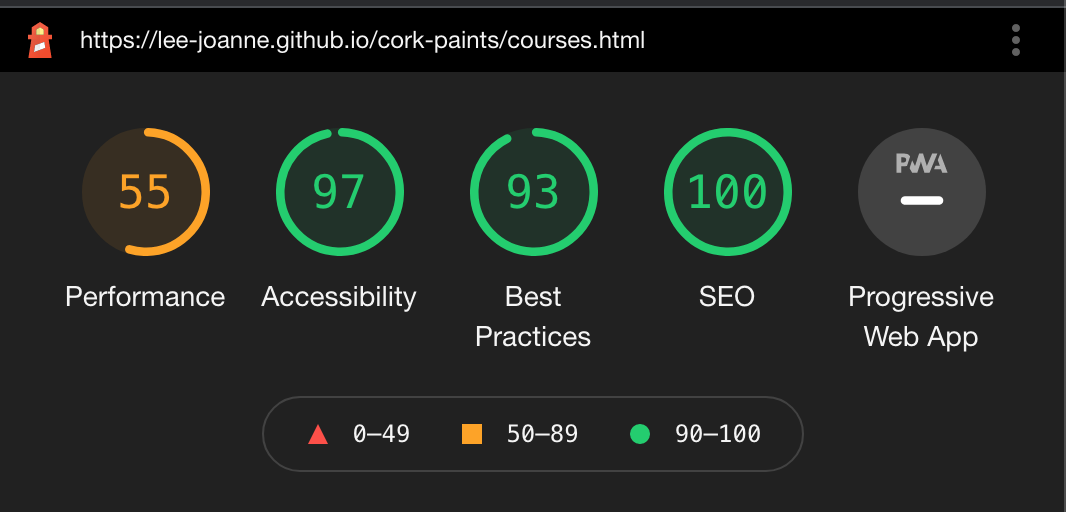
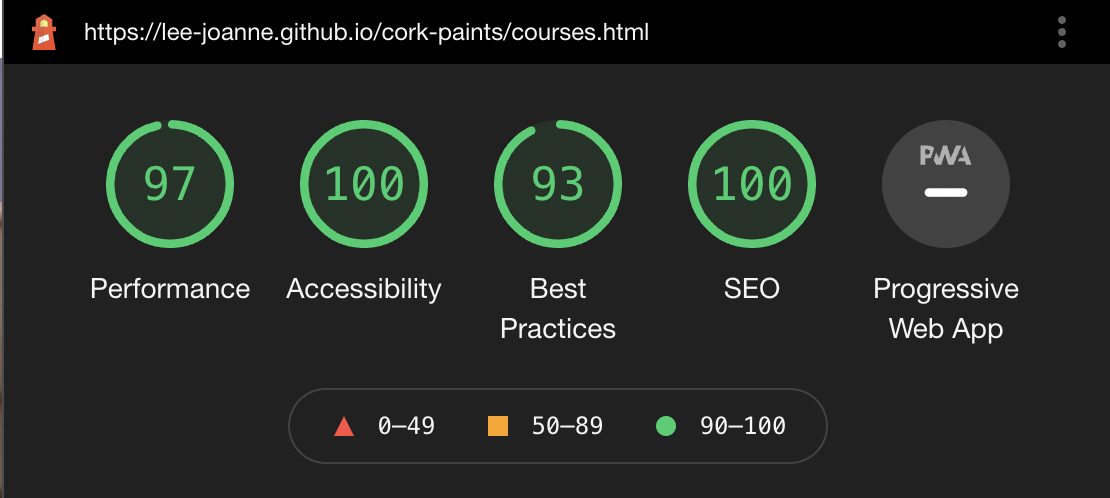
Make final revisions on README

diff --git a/README.md b/README.md
@@ -2,7 +2,7 @@
 
 [View Live Project Here](https://lee-joanne.github.io/cork-paints/)
 
-Cork Paints is a low-cost painting workshop for all different skill levels in Cork City, Ireland. The website is targeted towards children, teenagers, or adults who are interested in learning how to paint with acrylic, watercolour, or oil. Cork Paints offers in-class workshop sessions on evenings or weekends to suit the busy lifestyles of students and working adults. 
+Cork Paints is a low-cost painting workshop for all different skill levels in Cork City, Ireland. The website is targeted towards children, teenagers, or adults who are interested in learning how to paint with acrylic, watercolour, or oil. Cork Paints offers in-class workshop sessions on evenings or weekends to suit the busy lifestyle of students and working adults. 
 
 ![Screenshot of Cork Paints index page on Am I Responsive](assets/documentation/images/amiresponsive-index.png)
 ![Screenshot of Cork Paints courses page on Am I Responsive](assets/documentation/images/amiresponsive-courses.png)
@@ -13,25 +13,25 @@ Cork Paints is a low-cost painting workshop for all different skill levels in Co
 * ### User Stories
   - First Time Visitor Goals
 
-    1. As a First Time Visitor. I want to be able to easily understand what Cork Paints has to offer and how they are different from other expensive painting workshops in the city. 
+    1. As a First Time Visitor. I want to be able to easily understand what Cork Paints has to offer and how they are different from other expensive painting workshops in the city. On the landing page, I can see that Cork Paints offers low cost and affordable painting workshops for all different skill levels.
 
-    2. As a First Time Visitor, I can see exactly where Cork Paints is located in the city to know where to travel to for these in-class workshop sessions. 
+    2. As a First Time Visitor, I can see exactly where Cork Paints is located in the city to know where to travel to for these in-class workshop sessions. On the landing page, I can easily see the workshops take place in Cork City and I can scroll down to see the map view of where the workshop is.
 
-    3. As a First Time Visitor, I want to read the review section where other learners have tried Cork Paints to be assured this service is reputable, reliable, and sufficient.
+    3. As a First Time Visitor, I want to read the review section where other learners have tried Cork Paints to be assured this service is reputable, reliable, and sufficient. On the landing page, I can scroll down and easily find and read the testimonies and reviews by other learners.
  
   - Returning Visitor Goals
 
-    1. As a Returning Visitor, I want to read what different courses Cork Paints has to offer, including the prices, age range, dates, and skill level.
+    1. As a Returning Visitor, I want to read what different courses Cork Paints has to offer, including the prices, age range, dates, and skill level. When I go onto the courses page, each course is carefully laid out in individual cards with all of the information present and written clearly.
 
-    2. As a Returning Visitor, I want to know the operating hours of Cork Paints and how I can get in touch with any query I may have. 
+    2. As a Returning Visitor, I want to know the operating hours of Cork Paints and how I can get in touch with any query I may have. On the landing page, I can easily find this information when I scroll down and see the giant card with the operating hours and contact information.
 
     3. As a Returning Visitor, I know exactly how to register for my next course as the registration page is very comprehensive and easy to use, thanks to the two dropdown menus to select my course and skill level. 
 
   - Frequent User Goals
 
-    1. As a Frequent User, I want to be able to find and check out their social media links to be updated with any new events or updates. 
+    1. As a Frequent User, I want to be able to find and check out their social media links to be updated with any new events or updates. I can easily find this in the footer of all of the pages.
 
-    2. As a Frequent User, I want to see other courses I can try out that is either a skill level higher than the one I have tried previously or to try out a new type of course. I can easily jump to which skill level I want to see by clicking on the links at the top on my mobile device so I can save time scrolling. 
+    2. As a Frequent User, I want to see other courses I can try out that is either a skill level higher than the one I have tried previously or to try out a new type of course. On the courses page, I can easily jump to which skill level I want to see by clicking on the links at the top on my mobile device so I can save time scrolling. 
 
 
 * ### Design
@@ -41,7 +41,7 @@ Cork Paints is a low-cost painting workshop for all different skill levels in Co
     2. White (#fff)
     3. Black (#232222)
 
-    - The main colours I have selected for this website are purple (#78748F), white (#fff), and black (#232222). For white text with the purple background, I have added 0.8 opacity to make the solid colour less harsh but also to increase readability for the user. These colours work beautifully together and white fonts are used on top of purple backgrounds and black font is used on top of white backgrounds. 
+    - The main colours I have selected for this website are purple (#78748F), white (#fff), and black (#232222). For white text with the purple background, I have added 0.8 opacity to make the solid colour less harsh but also to increase readability for the user. These colours work beautifully together and white fonts are used on top of purple backgrounds and black font is used on top of white backgrounds to enhance accessibility.  
 
   - Typography
 
@@ -56,7 +56,7 @@ Cork Paints is a low-cost painting workshop for all different skill levels in Co
     - The hero image contains a gorgeous photo of a hand painting on a canvas, with colours that highly suit the colour scheme of the website. The image contains a keyframe to zoom in to catch the user's attention. The images chosen are selected to be minimalistic and artistic which suit the painting theme of Cork Paints.
 
 * ### Wireframes
-  - Wireframes have been created using the program Sketch.
+  - Low-fidelity wireframes have been created using the program Sketch.
 
     - Desktop Wireframe - [View](assets/documentation/wireframes/desktop-wireframe.png) 
 
@@ -74,7 +74,7 @@ Cork Paints is a low-cost painting workshop for all different skill levels in Co
 
     - The page that is currently active is coloured purple (#78748F) for the user to understand which page they are on. When the user hovers over the links, the links change to purple (#78748F) to help the user confirm which link they are about to click.
 
-    - When the device screens go smaller (tablet and mobile sizes), the navigation bar will turn into a hamburger icon. The hamburger icon is perfect for more breathing space between the navigation bar and logo for the users to redirect themselves to a different page. The hamburger icon is great for intuitive navigation as users will easily recognize the hamburger icon's purpose. 
+    - When the device screens go smaller (tablet and mobile sizes), the navigation bar will turn into a hamburger icon. The hamburger icon is perfect for more breathing space between the navigation links and logo for the users to redirect themselves to a different page. The icon highly increases user experience as the users will not have to worry about accidentally clicking another link if the links appear too small or squished. The hamburger icon is great for intuitive navigation as users will easily recognize the hamburger icon's purpose. 
 
     ![Screenshot of navbar in desktop view](assets/documentation/images/navbar-desktop.png)
     ![Screenshot of navbar in mobile view](assets/documentation/images/navbar-mobile.png)
@@ -82,15 +82,13 @@ Cork Paints is a low-cost painting workshop for all different skill levels in Co
 
   - Landing Page
 
-    - The landing page contains a large photograph of a painting on a canvas which matches the purple (#78748F) colour scheme and centered text in the middle. The large heading text has white font and has a purple background for contrast. The landing page explains what Cork Paints is, where they are, and what they offer in very brief statements. 
-
-    - The hero image contains an eyecatching animation of zooming up to grab the user's attention.
+    - The landing page contains a large photograph of a painting on a canvas which matches the purple (#78748F) colour scheme and centered text in the middle. The large heading text has white font and has a purple background for contrast. The landing page explains what Cork Paints is, where they are, and what they offer in very brief statements. The objective of this hero image and text is to explain very briefly what Cork Paints is all about, to grab the user's attention, and to give a good first impression of the website. The hero image also contains an eyecatching animation of zooming up.
 
     ![Screenshot of landing page](assets/documentation/images/landingpage.png)
 
   - About Section
 
-    - The about section contains a paragraph of text and a circular image. The h3 heading is in purple (#78748F) to match the colour scheme of the website and the text is in black to contrast the white background. The text explains who Cork Paints is to allow the users to understand who is behind Cork Paints. This allows the users to feel more connected to the people behind Cork Paints by humanizing the website. 
+    - The about section contains a paragraph of text and a circular image. The h3 heading is in purple (#78748F) to match the colour scheme of the website and the text is in black to contrast the white background for high accessibility. The text explains who Cork Paints is to allow the users to understand who is behind Cork Paints. This allows the users to feel more connected to the people behind Cork Paints by humanizing the website. 
 
     - The circular image contains a woman's face behind a painted piece of glass to represent the volunteers of Cork Paints to enhance the aesthetics of this section.
 
@@ -98,7 +96,7 @@ Cork Paints is a low-cost painting workshop for all different skill levels in Co
 
   - Testimonial Section
 
-    - The testimonial section contains testimonials and reviews from other learners who have attended Cork Paints. This section contains a large image of a painting as the background image. White text is displayed over purple (#78748F) cards for high readability. There are three cards for the section to be split into thirds to enhance the appeal of the section. 
+    - The testimonial section contains testimonies and reviews from other learners who have attended Cork Paints. This section contains a large image of a painting as the background image. White text is displayed over purple (#78748F) cards for high readability. There are three cards for the section to be split into thirds to enhance the appeal of the section. 
 
     - The testimonial section is crucial to give the users the confidence and reassurance that Cork Paints is a reputable website and service. 
 
@@ -158,7 +156,7 @@ Cork Paints is a low-cost painting workshop for all different skill levels in Co
 * ### Frameworks, Libraries & Programs Used
 
   1. [Bootstrap v5.0](https://getbootstrap.com/docs/5.0/getting-started/introduction/) 
-      - Bootstrap was used for the navigation bar on all pages to make the bar responsive on smaller devices. jQuery was part of Bootstrap to make the navigation bar toggle. 
+      - Bootstrap was used for the navigation bar on all pages to make the bar responsive on smaller devices. When the navigation bar reaches a certain size, it will turn into a hamburger icon. jQuery was part of Bootstrap to make the navigation bar toggle. 
 
   2. [Google Fonts](https://fonts.google.com/)
       - Google Fonts was used to import the fonts Montserrat and Lora. 
@@ -170,19 +168,19 @@ Cork Paints is a low-cost painting workshop for all different skill levels in Co
       - Git was used by utilizing the Gitpod terminal to commit to Git and Push to GitHub.
 
   5. [GitHub](https://github.com/)
-      - Git was used to store the project code after being pushed in by Git. GitHub was also used to deploy the project to create a public link.
+      - Git was used to store the project code after being pushed in by Git. GitHub Pages was also used to deploy the project to create a public link.
 
   6. [Sketch](https://www.sketch.com/)
-      - Sketch was used to create low fidelity wireframes of the website.
+      - Sketch was used to create low-fidelity wireframes of the website.
 
   7. [Pexels](https://www.pexels.com/)
       - Pexels was used for all images, including background images, to make the website look more appealing and eyecatching to the user.
 
   8. [Google Maps](https://maps.google.com)
-      - Google Maps was used to embed an iFrame to insert onto the index page of the website. The map is very useful for users to understand exactly where the workshop is located. 
+      - Google Maps was used to embed an iFrame to insert onto the index page of the website. The map is very useful for users to understand exactly where the workshop is located and to seek directions to the workshop from their location.
   
   9. [ColorZilla](https://www.colorzilla.com/)
-      - ColorZilla Chrome extension was used to select the purple (#78748F) colour by using this tool on the hero image on the Index Page to identiy the main colour scheme of the website.
+      - ColorZilla Chrome extension was used to select the purple (#78748F) colour by using this tool on the hero image on the index page to identiy the main colour scheme of the website.
 
   10. [Tinypng.com](https://tinypng.com/)
       - Tinypng was used to compress all of my images throughout the website to make the performance speed faster.
@@ -197,25 +195,25 @@ Cork Paints is a low-cost painting workshop for all different skill levels in Co
 To thoroughly test the website, the W3C Markup Validator and W3C CSS Validation Service were used to validate all pages of the project to spot any errors in the syntax. No errors were found for all HTML pages and the CSS file.
 
   - [W3C Markup Validator](https://validator.w3.org/)
-    - [Index Page Results](assets/documentation/images/index-validator.png) 
-    - [Courses Page Results](assets/documentation/images/courses-validator.png) 
-    - [Register Page Results](assets/documentation/images/register-validator.png) 
+![Index Page Results](assets/documentation/images/index-validator.png) 
+![Courses Page Results](assets/documentation/images/courses-validator.png) 
+![Register Page Results](assets/documentation/images/register-validator.png) 
 
   - [W3C CSS Validation Service](https://jigsaw.w3.org/css-validator/)
-    - [CSS Results](assets/documentation/images/css-validator.png) 
+![CSS Results](assets/documentation/images/css-validator.png) 
 
 * ### Accessibility Testing
 
-The website was also tested on Lighthouse to test accessibility. When tested, all three pages come up as 97% on accessibility. 
+The website was also tested on Lighthouse to test accessibility. When tested, all three pages come up as 97+ on accessibility. 
 
-  - [Index Page Results](assets/documentation/images/index-lighthouse.png)
-  - [Courses Page Results](assets/documentation/images/courses-lighthouse.png)
-  - [Register Page Results](assets/documentation/images/register-lighthouse.png)
+![Index Page Results](assets/documentation/images/index-lighthouse.png)
+![Courses Page Results](assets/documentation/images/courses-lighthouse.png)
+![Register Page Results](assets/documentation/images/register-lighthouse.png)
 
 * ### Unfixed Bugs
 
-  - Using Lighthouse, performance scores are low on all of the pages. In the future, I wish to be able to bring the performance score up to at least 90% to ensure that the users will be able to open up this website at ease. This issue has been left unfixed because when convering some of the images from jpeg to webp and then compressing, the quality of the images have been lost. User experience of clear images has been prioritized for now over performance speed to ensure the website is appealing to the user.
   - When previewed on Google DevTools in the 'Galaxy Note' device viewport, the 'Cork Paints' logo breaks apart when the hamburger icon toggle collapses and 'Paints' moves onto the next line. When making the logo smaller using media queries, the logo becomes too small which could bring a bad user experience, especially users with visual impairment. Devices wider than the 'Galaxy Note' show the logo perfectly when the hamburger icon toggles. Since this is a slight error that only causes a minor imperfection, I have left the logo's size alone since it does not cause a detrimental user experience compared to making the logo font size smaller.  
+   - When this website is previewed on iPhones, the contact telephone number of the website becomes blue which does not contrast well to the purple background. In order to fix this, meta tag would need to be in place. I have not added this since it is only a slight imperfection and the phone number still contrasts perfectly when viewed on mobile sized viewports using Google DevTools.
 
 * ### Fixed Bugs
 
@@ -224,13 +222,12 @@ The website was also tested on Lighthouse to test accessibility. When tested, al
     - The navigation bar installed by Bootstrap v5.0 was very difficult to overcome. After adding the Bootstrap CSS stylesheet and script, the navigation bar refused to toggle when it became a hamburger icon. After researching on Stack Overflow and asking queries on Slack, I have asked tutor support for advice and they have helped me thoroughly. It turned out that I have added the plug-in twice by accident so I had to remove the script at the bottom. The navigation bar as well was left-aligned when I wanted it to be right-aligned. With help from tutor support, I was able to add 'ms-auto' as a class to the navigation bar for the navigation bar to be right-aligned.
     - The course cards on the courses page were not stacking centered when the viewport became smaller. It turned out that I had a div with incorrect flex display properties and I had to create another div to have flex display properties to correctly center the cards when the screen becomes smaller.
     - The background image on the courses page became very low quality when the screen size became a tablet size and smaller. To fix this, I decided to make the background image fixed when the screen is lower than 1245px so that the image would not be stretched and the webpage is still able to scroll with the fixed background.
-    - The performance score in Lighthouse for all of the pages were initially very low, scoring around 20%. In order to try to increase the score, I have taken all of the images and have compressed them used [Tinypng.com](https://tinypng.com/). I have converted the smaller images from jpeg to webp format using the online conversion tool, [Convertio](https://convertio.co/jpeg-webp/), to help reduce the size of the images. After all of this, the performance score is still low but is considerably higher than how it was initially.
-
+    - The performance score in Lighthouse for all of the pages were initially very low, scoring around 20%. In order to try to increase the score, I have taken all of the images and have compressed them used [Tinypng.com](https://tinypng.com/). I have converted the smaller images from jpeg to webp format using the online conversion tool, [Convertio](https://convertio.co/jpeg-webp/), to help reduce the size of the images. 
 
     
 * ### Further Testing
 
-  - The website has been tested on different browsers including Chrome, Safari, and Firefox. Large monitors, laptops, tablets, and devices such as the iPhone 13 Mini, iPhone 11, and Xiaomi Mi Note 10 have been used to check the quality of the website. 
+  - The website has been tested on different browsers including Chrome, Safari, and Firefox. Large monitors, laptops (MacBook Early 2016, MacBook Pro 2020), tablets (Xiaomi Tablet), and devices (iPhone 13 Mini, iPhone 11, Xiaomi Mi Note 10) have been used to check the quality of the website. 
   - Using Chrome DevTools, I have tested all of the pages on multiple different device screens to check the responsiveness of all the pages:
     - ![Screenshot of DevTools device list](assets/documentation/images/devtools-devices.png)
 
@@ -238,13 +235,15 @@ The website was also tested on Lighthouse to test accessibility. When tested, al
 
 The website was deployed using GitHub Pages. The following steps were taken for the deployment process:
 
-  1. Log in to [GitHub](https://github.com/).
-  2. Click on the profile icon to locate 'Your repositories'. 
+  1. Log in to **[GitHub](https://github.com/)**.
+  2. Click on the profile icon to locate **Your repositories**. 
   3. On the repository page, click on the repository you wish to deploy.
-  4. At the top of the repository, locate the 'Settings' link and click.
-  5. On the Settings page, locate the 'Pages' section in the left-hand navigation section and click.
-  6. On the GitHub Pages page, under 'Source' click "Main". Click 'Save'.
+  4. At the top of the repository, locate the **Settings** link and click.
+  5. On the Settings page, locate the **Pages** section in the left-hand navigation section and click.
+  6. On the GitHub Pages page, under **Source** click **Main**. Click **Save**.
   7. Refresh the page and the live link is ready. 
+
+  [View Live Project Here](https://lee-joanne.github.io/cork-paints/)
 
 ## Credits
 
@@ -281,13 +280,13 @@ The website was deployed using GitHub Pages. The following steps were taken for 
 * ### Content
 
   - Majority of the structure of the website was inspired by the Love Running project. 
-  - Code Institute's course section on how to create forms was used for the sign up section on the Register Page. 
+  - Code Institute's course section on how to create forms was used for the sign up section on the register page. 
   - Icons throughout the website are taken from [Font Awesome](https://fontawesome.com/).
   - The structure of this README.md file was taken from the [Code Institute sample README](https://github.com/Code-Institute-Solutions/SampleREADME) and the [Love Running sample README](https://github.com/Code-Institute-Solutions/readme-template).
 
 * ### Media
 
-  - The iFrame on the Index Page is taken from [Google Maps](https://www.google.com/maps).
+  - The iFrame on the index page is taken from [Google Maps](https://www.google.com/maps).
   - All images throughout the webiste are taken from [Pexels](https://www.pexels.com/).
 
 * ### Acknowledgements 
